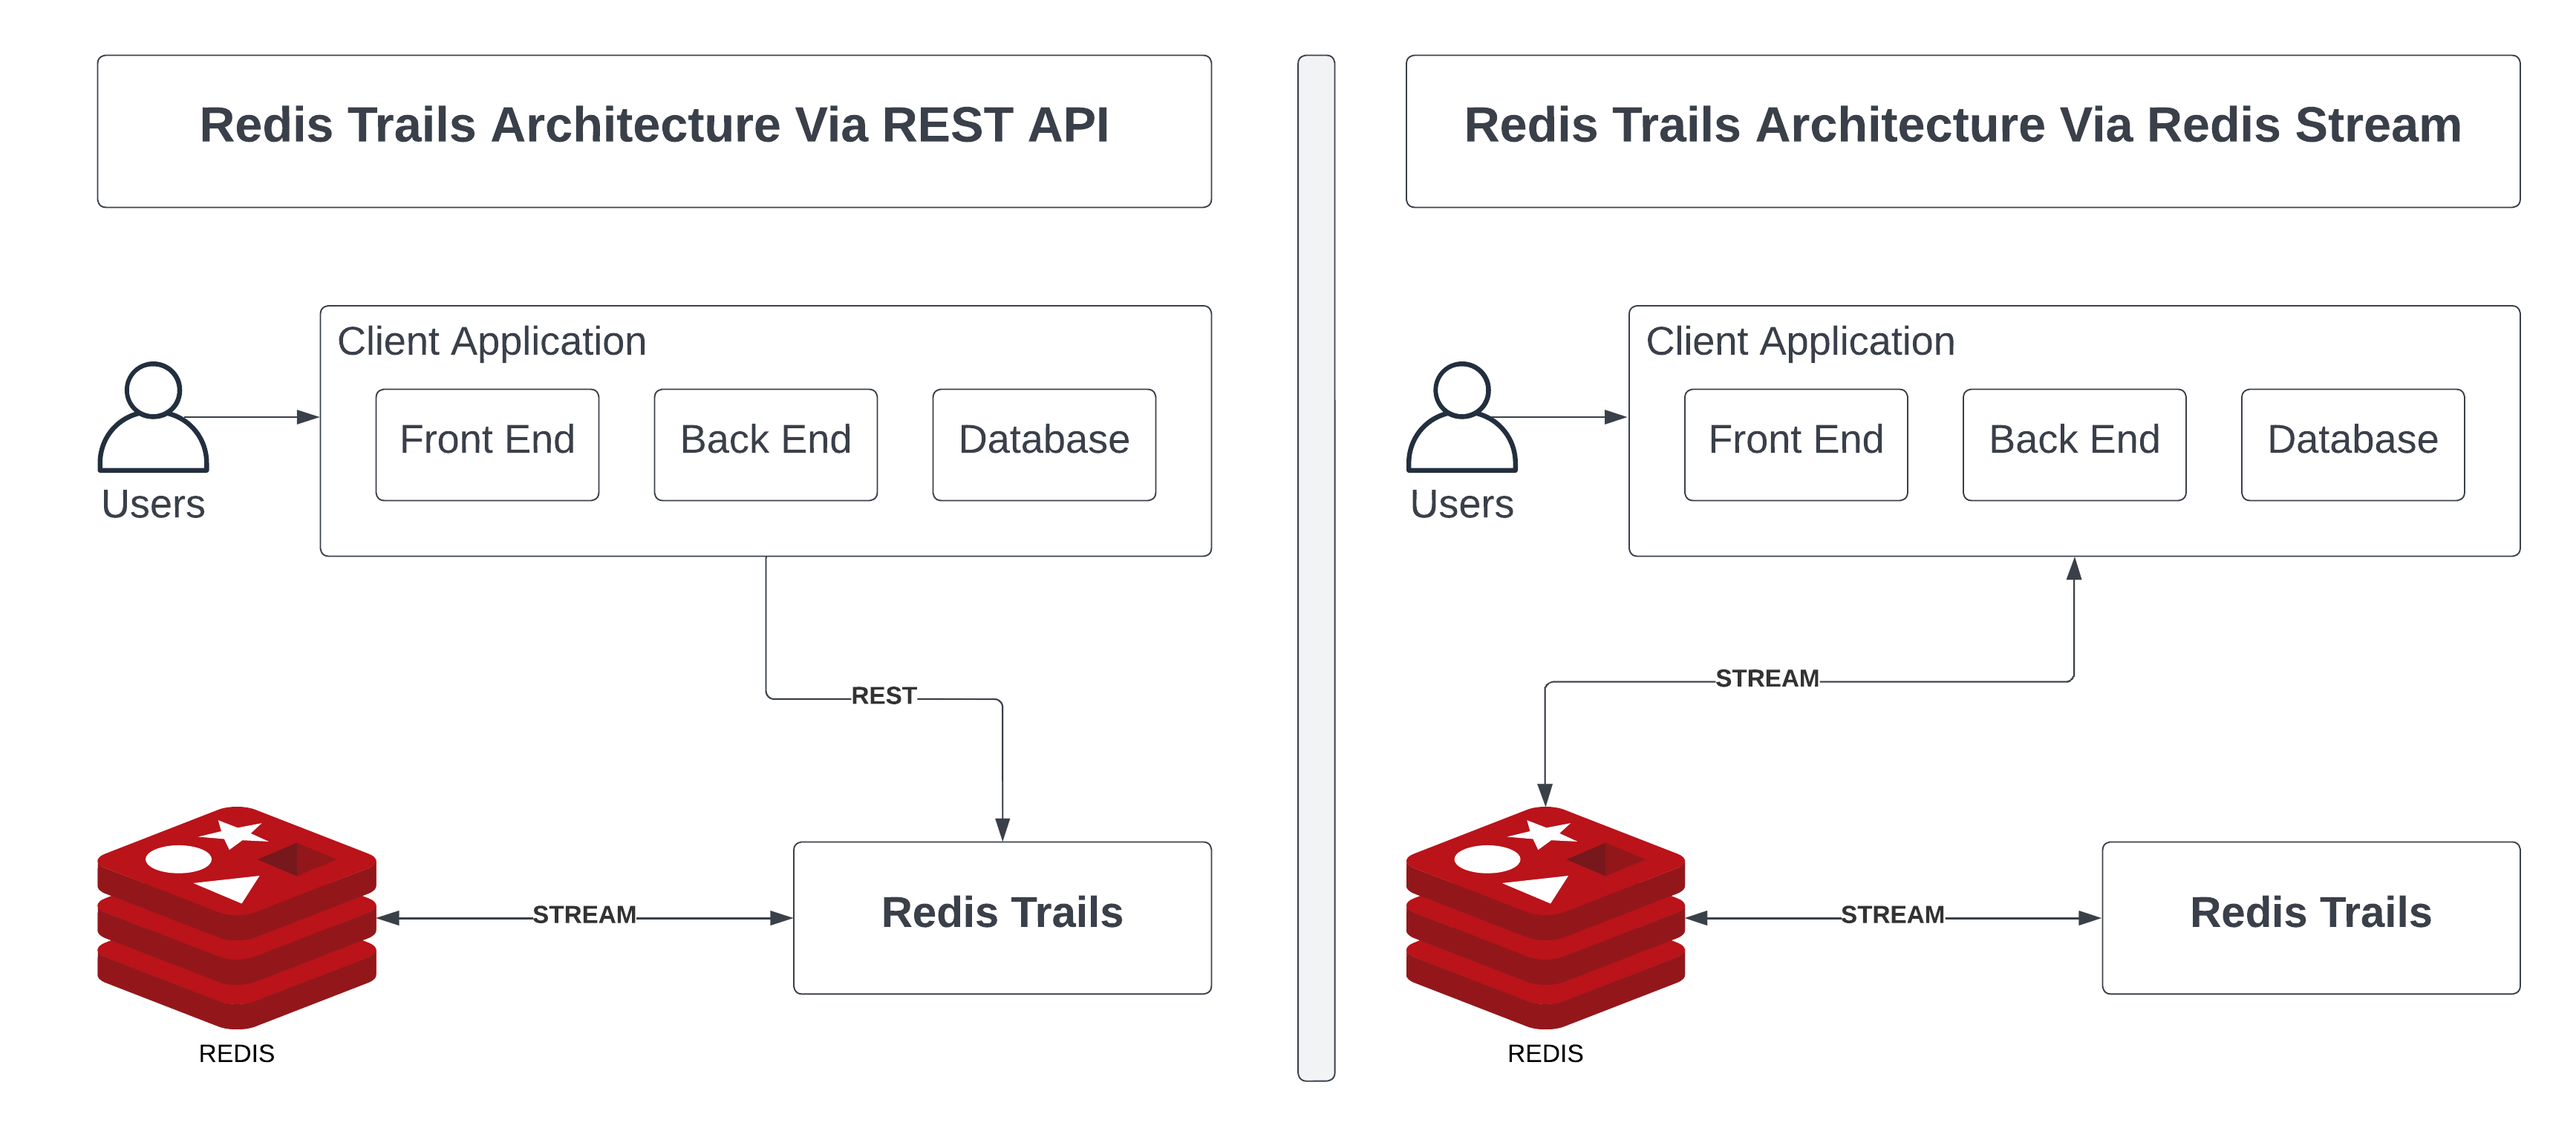
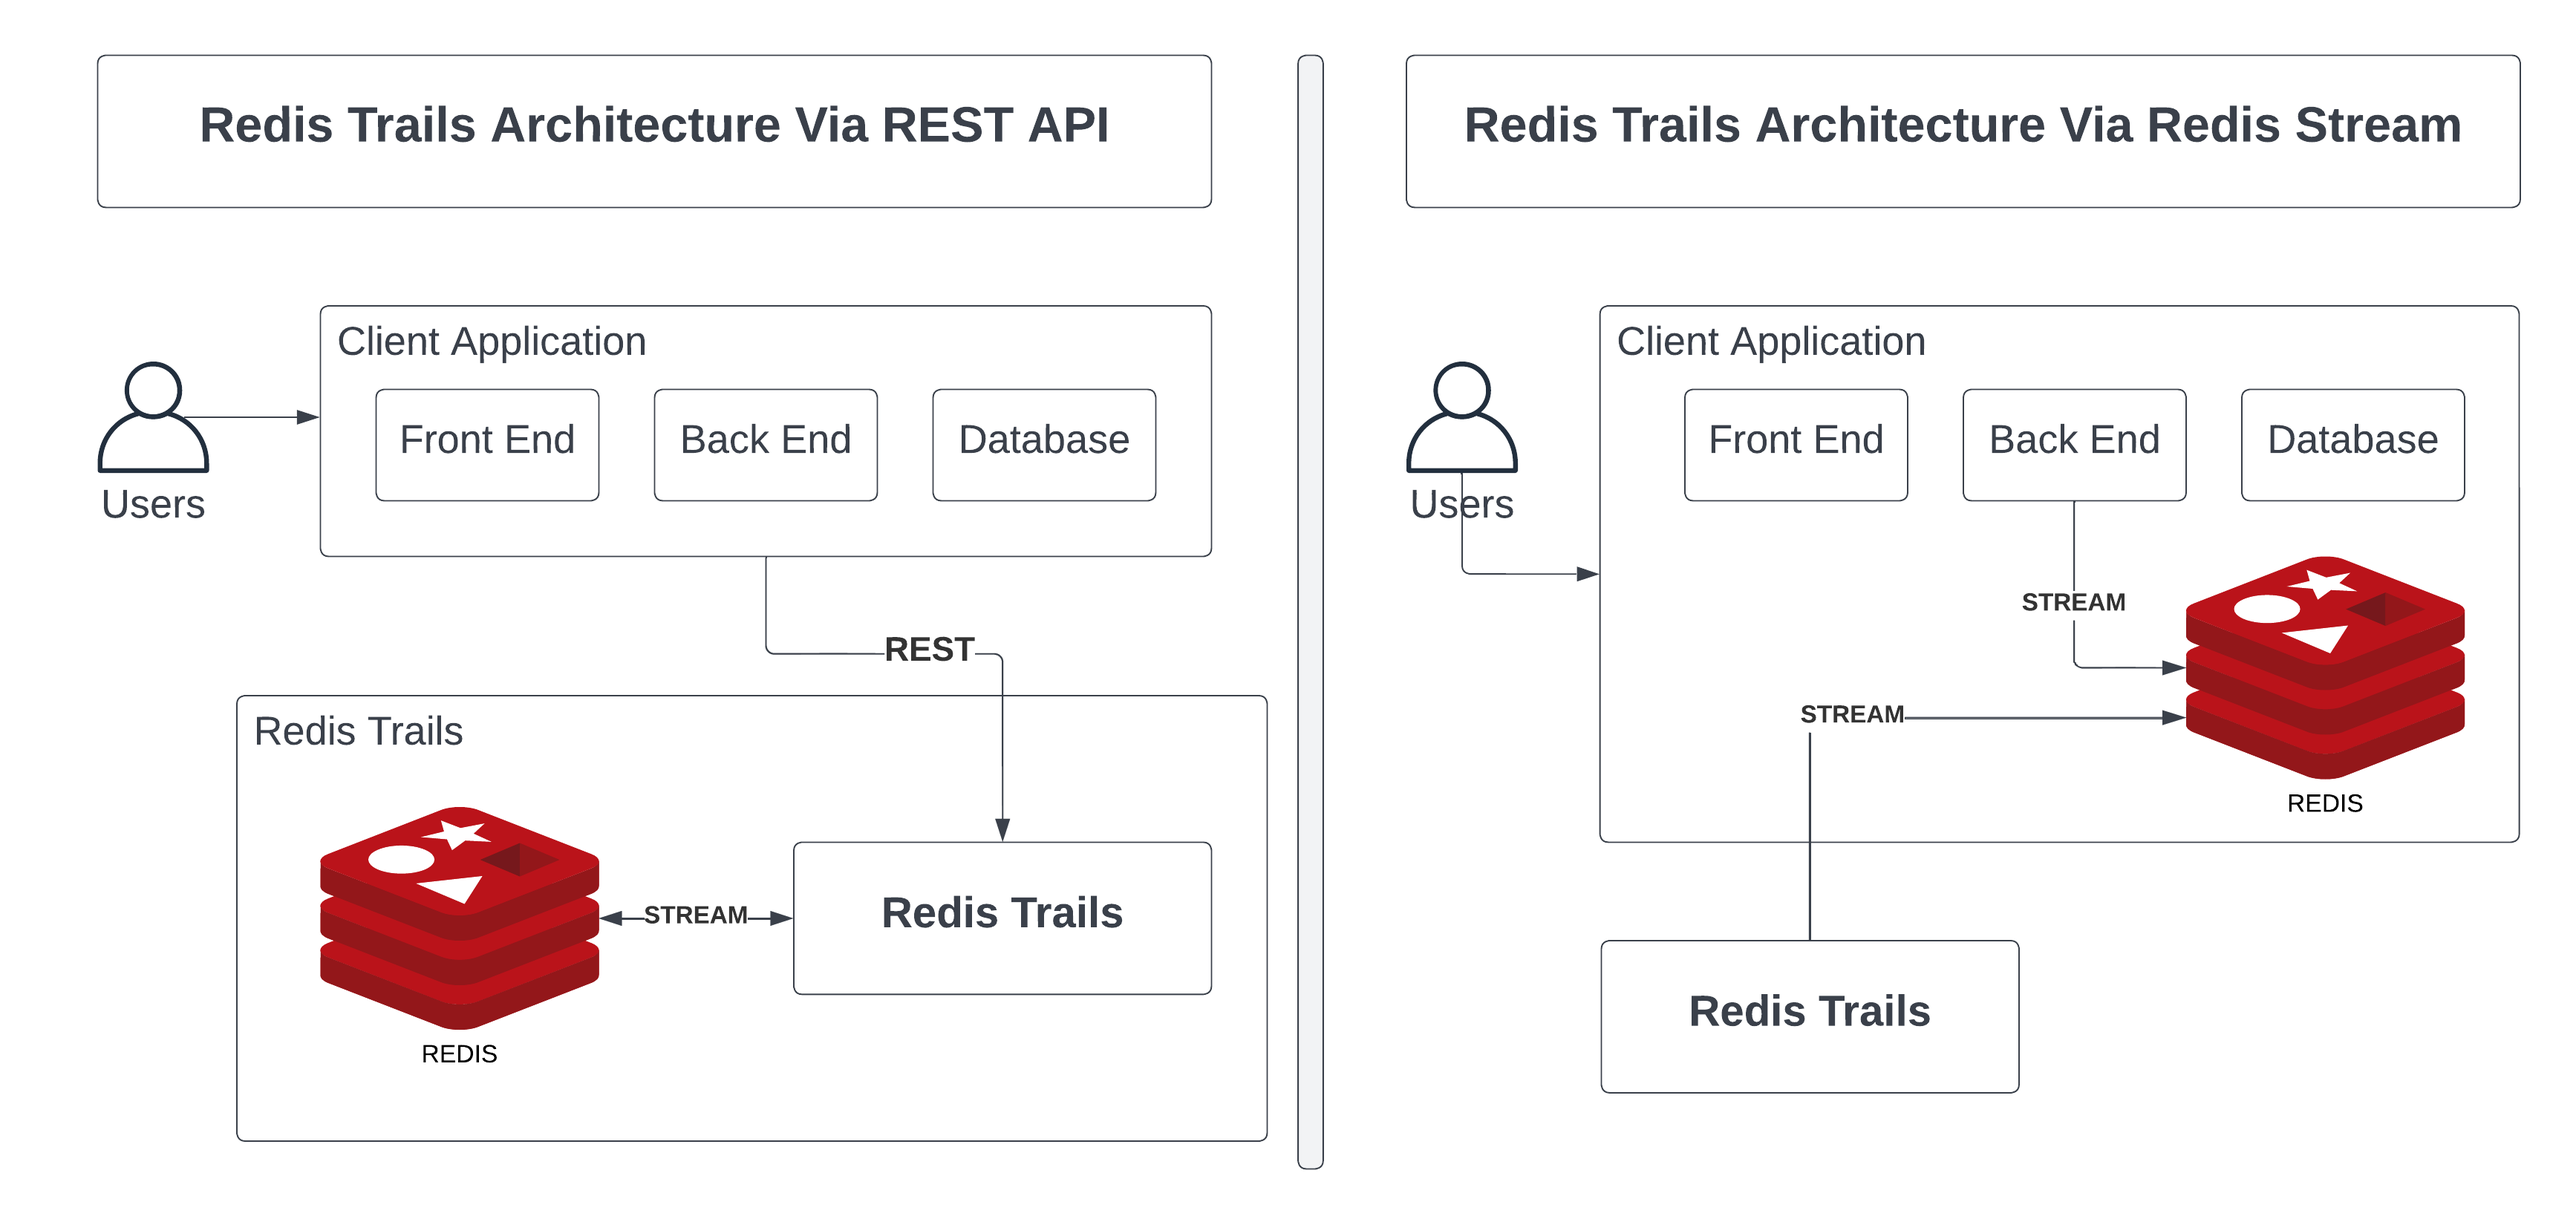
FEAT: Add Interflow for STREAM

diff --git a/README.md b/README.md
@@ -38,6 +38,10 @@ To simply put, we can query the change history of any product via subject and it
 ### Internal Process Flow
 ***Process Flow via REST from Client Application***
 ![Process Flow REST](./assets/Internal-Process-Rest.png)
+<br>
+<br>
+***Process Flow via Stream from Client Application***
+![Process Flow STREAM](./assets/Internal-Process-Stream.png)
 
 ### Record Schema
 We will take product as example in the demo, below is the schema of the Product's Record of the application:
